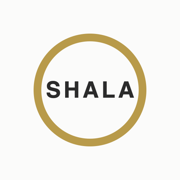
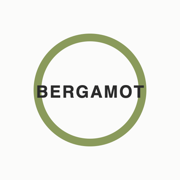
Rebrand from The Shala to Bergamot Yoga
Rename app title, manifest, print header and footer, default template,
database and export identifiers, and regenerate icons with the new
wordmark and a sage accent colour.

Changed region(s): [[0.1667, 0.1667, 0.8333, 0.8333]]

diff --git a/src/data/backup.ts b/src/data/backup.ts
@@ -6,7 +6,7 @@ import { CURRENT_SCHEMA_VERSION } from './types'
 export async function exportAll(): Promise<ExportFile> {
   const [plans, templates] = await Promise.all([db.plans.toArray(), db.templates.toArray()])
   return {
-    app: 'shala-class-planner',
+    app: 'bergamot-class-planner',
     exportedAt: new Date().toISOString(),
     schemaVersion: CURRENT_SCHEMA_VERSION,
     templates,
@@ -34,7 +34,7 @@ export interface ImportResult {
 export async function importFromFile(file: File): Promise<ImportResult> {
   const text = await file.text()
   const parsed = JSON.parse(text) as Partial<ExportFile>
-  if (parsed.app !== 'shala-class-planner' || !Array.isArray(parsed.plans) || !Array.isArray(parsed.templates)) {
+  if (parsed.app !== 'bergamot-class-planner' || !Array.isArray(parsed.plans) || !Array.isArray(parsed.templates)) {
     throw new Error('Filen er ikke en gyldig Class Planner-eksport.')
   }
   const plans = parsed.plans.map((p) => migratePlan(p as Plan))

diff --git a/src/views/PrintView.vue b/src/views/PrintView.vue
@@ -30,7 +30,7 @@ function print() {
 }
 
 onMounted(() => {
-  document.title = `${plan.value?.name || 'Class Planner'} – The Shala`
+  document.title = `${plan.value?.name || 'Class Planner'} – Bergamot Yoga`
 })
 </script>
 
@@ -45,7 +45,7 @@ onMounted(() => {
       <div class="sheet__head">
         <div class="brand brand--print">
           <span class="brand__ring"></span>
-          <span class="brand__name">The Shala</span>
+          <span class="brand__name">Bergamot Yoga</span>
         </div>
         <h1>Class Planner</h1>
       </div>
@@ -82,8 +82,8 @@ onMounted(() => {
       <div class="sheet__foot">
         <div class="brand brand--print">
           <span class="brand__ring"></span>
-          <span class="brand__name">The Shala</span>
-          <span class="brand__sub">Yoga &amp; Mindfulness</span>
+          <span class="brand__name">Bergamot Yoga</span>
+          <span class="brand__sub">Yoga</span>
         </div>
       </div>
     </div>

diff --git a/src/App.vue b/src/App.vue
@@ -8,7 +8,7 @@ const route = useRoute()
     <header v-if="!route.meta.print" class="topbar">
       <RouterLink to="/" class="brand">
         <span class="brand__ring"></span>
-        <span class="brand__name">The Shala</span>
+        <span class="brand__name">Bergamot Yoga</span>
         <span class="brand__sub">Class Planner</span>
       </RouterLink>
       <nav class="topbar__nav">

diff --git a/vite.config.ts b/vite.config.ts
@@ -9,7 +9,7 @@ export default defineConfig({
       registerType: 'autoUpdate',
       includeAssets: ['favicon.svg', 'apple-touch-icon.png'],
       manifest: {
-        name: 'The Shala Class Planner',
+        name: 'Bergamot Yoga Class Planner',
         short_name: 'Class Planner',
         description: 'Planlegg og organiser yogaklasser',
         lang: 'nb',

diff --git a/index.html b/index.html
@@ -8,7 +8,7 @@
     <meta name="apple-mobile-web-app-capable" content="yes" />
     <meta name="apple-mobile-web-app-status-bar-style" content="default" />
     <meta name="theme-color" content="#fbfbfa" />
-    <title>Class Planner – The Shala</title>
+    <title>Class Planner – Bergamot Yoga</title>
   </head>
   <body>
     <div id="app"></div>

diff --git a/src/data/db.ts b/src/data/db.ts
@@ -19,7 +19,7 @@ class PlannerDatabase extends Dexie {
   backups!: Table<Backup, number>
 
   constructor() {
-    super('shala-class-planner')
+    super('bergamot-class-planner')
     this.version(1).stores({
       plans: 'id, templateId, date, updatedAt',
       templates: 'id, updatedAt',

diff --git a/src/data/types.ts b/src/data/types.ts
@@ -60,7 +60,7 @@ export interface Backup {
 }
 
 export interface ExportFile {
-  app: 'shala-class-planner'
+  app: 'bergamot-class-planner'
   exportedAt: string
   schemaVersion: number
   templates: Template[]

diff --git a/src/style.css b/src/style.css
@@ -6,7 +6,7 @@
   --line: #d6d6d6;
   --paper: #fbfbfa;
   --bg: #f1f0ec;
-  --accent: #b89a4a;
+  --accent: #8a9a5b;
   --accent-ink: #fff;
   --danger: #a33;
   --radius: 4px;

diff --git a/README.md b/README.md
@@ -1,4 +1,4 @@
-# The Shala – Class Planner
+# Bergamot Yoga – Class Planner
 
 Web app for creating and organising yoga class plans from a fixed template
 (the two-page "Class Planner" spread). Plans are stored locally in the browser
